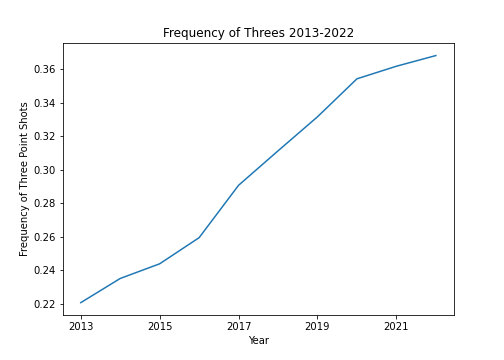
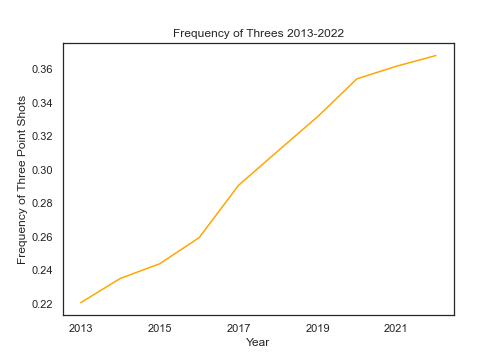
orange for line graphs

diff --git a/README.md b/README.md
@@ -1,10 +1,10 @@
 # Investigating NBA Teams' Style Of Play Over the Last Decade
 
-The goal of this project is to tell the story of the last decade in the NBA, through the lens of style of play.  Everything begins and ends with the rise in popularity of the three-pointer.  As the importance of data analytics has risen in front offices around the league, teams are embracing the "3 is more than 2" mantra.  In just 10 years, the average three-point frequency for a team has gone from 22% to 36.8% for a 67% increase.  That is a staggering overhaul in style of play!  The visual below showcases this seismic shift in three point frequency and the resulting uptick in efficiency:
+The goal of this project is to tell the story of the last decade in the NBA, through the lens of style of play.  Everything begins and ends with the rise in popularity of the three-pointer.  As the importance of data analytics has risen in front offices around the league, teams are embracing the "3 is more than 2" mantra.  In just 10 years, the average three-point frequency for a team has gone from 22% to 36.8% for a 67% increase.  That is a staggering overhaul in style of play!  The visuals below showcases this seismic shift in three point frequency and the resulting uptick in efficiency:
 
 ![three point frequency 2013 v 2022](https://github.com/aothree/NBA-Style-of-Play/blob/master/Visuals/three%20point%20frequency%202013%20v%202022%20hist.png)
 
-![pts/100possessions](https://git.generalassemb.ly/ao/NBA_Capstone/blob/master/Visuals/100%20Possessions%20boxplots.jpg)
+![pts/100possessions]()
 
 Have all teams capitulated and hopped on board the efficiency train?   This project uses a KMeans Clustering model to help contexualize and group how teams have responded to the influx of data analytics.  Using results from the clusters, we then analyze how teams playing these different styles have performed.     
 
@@ -96,9 +96,11 @@ There are a few things that with more time I would have liked to dive into:
 
 1. Try to predict how the frequency of threes will look over the next decade.  Based on the recent success of teams that don't shoot as many threes as the rest of the league (ie the current version of the Phoenix Suns), my hypothesis would be we've reached a plateau in terms of three point frequency.  I don't think average frequency will rise much higher than it currently is, there are already some signs of pullback in the visual below.  Around 2020, it seems the rate of increase is leveling off some.  But exactly where it will level off would be fun to try and predict.
 
-![line chart 3 frequency](insert pic here)
+![line chart 3 frequency](https://github.com/aothree/NBA-Style-of-Play/blob/master/Visuals/line%20chart%20threes%202013_2022.png)
 
-2. 
+2. Investigate how this three-point boom has changed roster composition.  Look at the standard deviation of field goal % for all players in the league.  The hypothesis would be that standard deviation has shrunk.  In the 90s for example, you had a lot of Dennis Rodman types--players whose impact on the game had nothing to do with their ability to shoot.  Nowadays, the ability to shoot feels like a pre-requisite to playing in the NBA.
+
+3. Do a similar clustering analysis--but analyzing style of play on the defensive end.  The defensive end is often ignored (guilty!) but is widely considered just as important to winning as offense.  How have defensive strategies evolved during the three-point boom?
 
 
 
